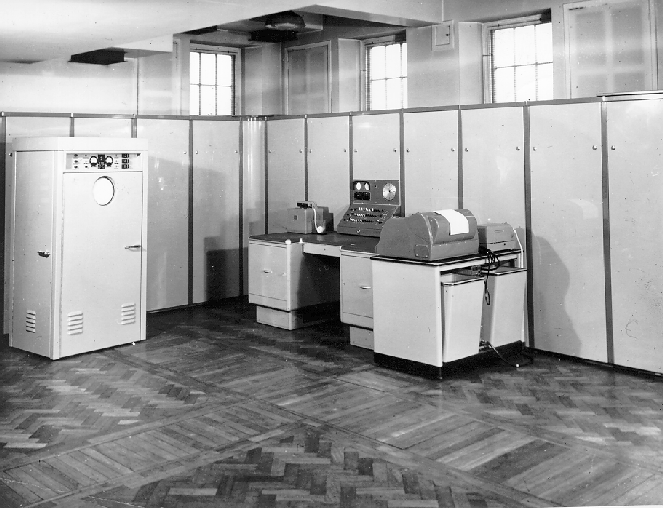
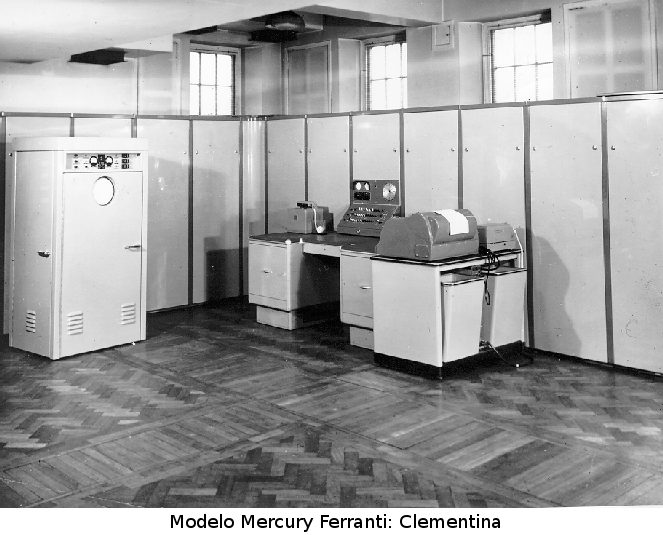
arreglado errores, corte de palabras por ejemplo

diff --git a/informe/Articulo.tex b/informe/Articulo.tex
@@ -25,6 +25,11 @@
 \newcommand{\link}[1]{\textit{}{#1}}
 \usepackage[left=3.2cm,top=3.5cm,bottom=0.5cm,right=3.2cm]{geometry}
 % \hyphenate{ad-qui-si-ci\'on}
+
+% para que no corte las palabras mal... no se si anda bien
+\pretolerance=500
+\tolerance=600
+
 \begin{document}
 \onecolumn
 % \sffamily
@@ -60,7 +65,7 @@ Los desarrollos y avances inform\'aticos de Argentina siempre estuvieron intimam
 
 La llegada de la primera computadora, Clementina, a la Universidad de Buenos Aires se considera uno de los acontecimientos m\'as importantes de la computaci\'on en nuestro pa\'is, muchos aseguran que dicho suceso marc\'o el nacimiento de los desarrollos inform\'aticos en Argentina.
 
-Dentro de los desarrollos inform\'aticos propios, m\'as importantes, se encuentran; el prototipo de la Facultad de Ingenier\'ia de la Universidad de Buenos Aires, al mando del Ing. Ciancanglini, el de la Universidad Nacional del Sur, llevado a cabo por Ing. Santos y constru\'ido en Bah\'ia Blanca, por el Ing. Escud\'e para la Armada Argentina.
+Dentro de los desarrollos inform\'aticos propios, m\'as importantes, se encuentran; el prototipo de la Facultad de Ingenier\'ia de la Universidad de Buenos Aires, al mando del Ing. Ciancanglini, el de la Universidad Nacional del Sur, llevado a cabo por Ing. Santos y el constru\'ido en Bah\'ia Blanca, por el Ing. Escud\'e para la Armada Argentina.
 
 A nivel industrial, existieron varios proyectos de empresas nacionales, que generaron muy buenos resultados, pero no perduraron mucho tiempo en el mercado. Algunas de ellos, forman parte de un objeto de colecci\'on para muchos fan\'aticos, como son el caso de equipos marca Czerweny, Telematica, entre otras. Estas computadoras pasaron de ser una herramienta de trabajo a ser un vestigio de la historia inform\'atica argentina.
  
@@ -93,7 +98,10 @@ Posteriormente, Ferranti construy\'o el modelo Ferranti Mark I que usaba n\'ucle
 En la d\'ecada del 60, la Universidad de Buenos Aires (UBA), por iniciativa y gesti\'on del Dr. Manuel Sadosky\cite{sadosky}, adquiri\'o la primera computadora de la Argentina.
 Las negociaciones para la adquisici\'on de esta computadora comenzaron en 1958. El modelo elegido fue una Mercury Ferranti, luego de una licitaci\'on a la cual se presentaron IBM, Remington y Philco de los Estados Unidos y Ferranti de Inglaterra. Esta elecci\'on, seg\'un Sadosky: ``Para la \'epoca se trataba de una m\'aquina de excelente categor\'ia t\'ecnica no s\'olo por su rapidez y tipo de memoria, sino tambi\'en porque el grupo de investigadores de la Universidad de Manchester hab\'ia desarrollado un lenguaje, Autocode, de f\'acil aprendizaje y de buenas caracter\'isticas para el tratamiento de problemas cient\'ificos''.
 
-\begin{center}\includegraphics[width=200pt, height=153pt]{clementina.png}\end{center}
+% \begin{figure}
+\begin{center}\includegraphics[width=199pt, height=161pt]{clementina.png}\end{center} %imagen al 30 %
+% \caption{Modelo Mercury Ferranti: Clementina}
+% \end{figure}
 
 Se puede decir que la llegada de esta computadora, a la cual llamaron \textit{Clementina}\footnote{Este nombre surgi\'o debido a que al arrancar emit\'ia pitidos que se asemejaban a la melod\'ia del folk Clementine} marc\'o el nacimiento de las investigaciones entorno a la computadora en Argentina.
 Sadosky fue un matem\'atico y cient\'ifico argentino, considerado por muchos como el ``padre de la computaci\'on en la Argentina''.
@@ -108,7 +116,7 @@ Cuando ya exist\'ia una masa de profesionales formados en electr\'onica digital,
 
 El estudio de los or\'igenes de la computadora computadora nos permite conocer cu\'ales fueron los factores sociales y tecnol\'ogicos que llevaron al hombre a crearla y modificarla hasta alcanzar el vertiginoso de desarrollo que tiene actualmente. El advenimiento de la Segunda Guerra Mundial (WWII\footnote{Deriva de las sigla en ingles World War II}) aceler\'o este proceso, en donde se vio la importancia de la aplicaci\'on de t\'ecnicas digitales sobre diversos campos y la computaci\'on cobr\'o m\'as relevancia. En la Argentina, muchos profesionales y cient\'ificos formados en las universidades nacionales, estuvieron radicados en Europa, en laboratorios y centros dedicados a la fabricaci\'on de computadores digitales. 
 
-Esa interacci\'on, provoc\'o que a partir de 1958 se proyectaran construcci\'ones de peque\~nas computadoras electr\'onicas digitales, como son CEFIBA y CEUNS.
+Esa interacci\'on, provoc\'o que a partir de 1958 se proyectaran construcci\'ones de peque\~nas computadoras electr\'onicas digitales, como son CEFIBA y CEUNS en primer momento y luego la ARGENTA a mediados de la decada de los 70.
 
 \subsection*{CEFIBA}
 
@@ -307,7 +315,7 @@ Hasta hace unos pocos a\~nos el mercado interno de la Argentina, estaba acostumb
 
 La empresa nacional Novatech Solutions S.A. radicada en Buenos Aires, inici\'o sus actividades en abril del 2005. Siendo la \'unica en su tipo en nuestro pa\'is y s\'olamente la segunda en toda Am\'erica del Sur. Novatech se especializa en la fabricaci\'on y comercializaci\'on de m\'odulos de memorias RAM, pen drives y flash media para Desktop, Notebook y Workstations Servers. Comenz\'o sus actividades con una visi\'on de cubrir las grandes necesidades de stock del mercado local, pero ya ha logrado exportar sus productos en todo el MercoSur\footnote{Mercado Com\'un del Sur\cite{mercosur}}.
 
-\begin{center}\includegraphics[width=300pt, height=152pt]{novatech.png}\end{center}
+\begin{center}\includegraphics[width=200pt, height=102pt]{novatech.png}\end{center}%la imagen esta al 66.67%
 
 Adem\'as ofrece abastecimiento local y servicio t\'ecnico a sus clientes para la reparaci\'on, testeo y programaci\'n de toda clase de memorias, incluso de otras marcas. En su l\'inea de producci\'on utiliza tecnolog\'ia de montaje sobre superficie SMT (Surface Mount Technology). Cuenta con ensambladoras autom\'aticas Suzuki de 4 cabezas, y equipamiento de control de calidad de \'ultima generaci\'on para la fabricaci\'on de m\'odulos de memoria para distintas plataformas. La empresa, tambi\'en, posee una l\'inea completa de producci\'on para la l\'inea Flash, que consiste en un ``High Speed Flexible Mounter'' y un horno de soldadura con dispositivos autom\'aticos, dos selladoras, una impresora Ink Jet, una etiquetadora autom\'atica y un router de corte.
 
